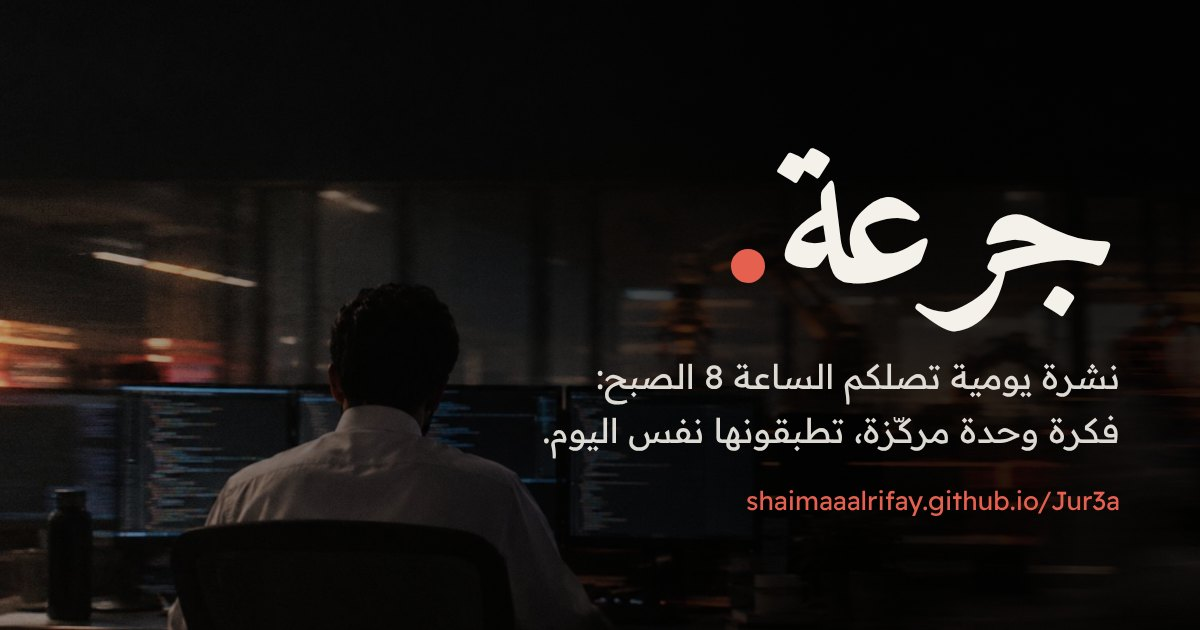
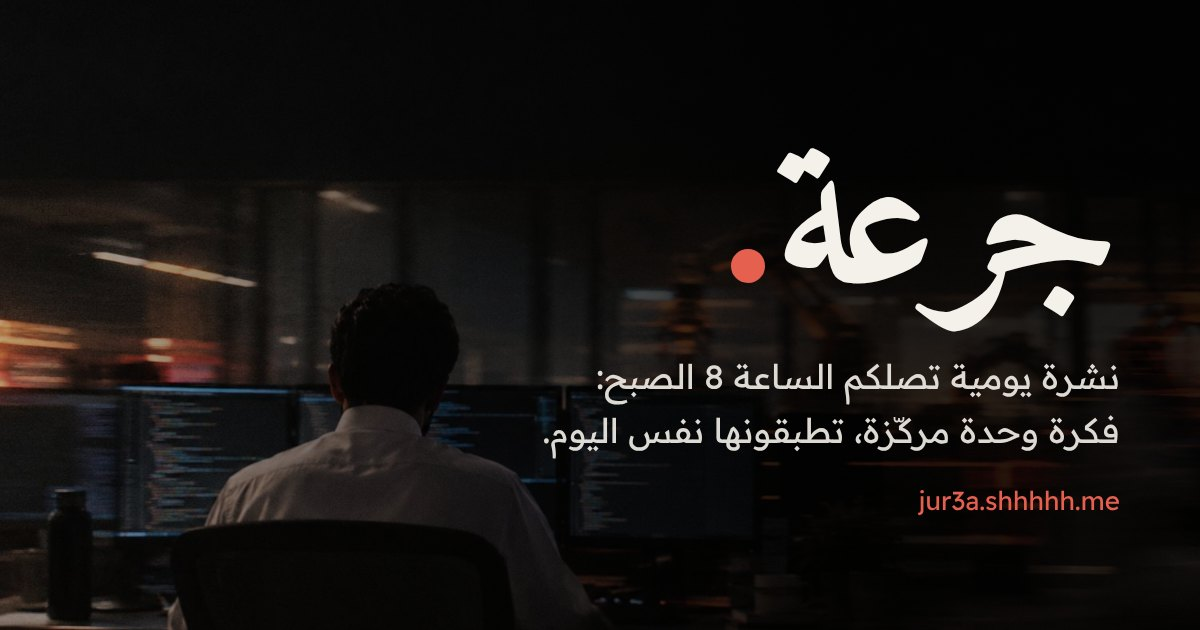
الرئيسية: الأعداد في الوسط 10 بكل صفحة مع التالي/السابق، والاشتراك تحت + نقل الروابط لـ jur3a.shhhhh.me
Claude-Session: https://claude.ai/code/session_01SRfYB84JyMSQ5npu2S7rZ2

Changed region(s): [[0.6167, 0.7841, 0.925, 0.8143]]

diff --git a/assets/app.js b/assets/app.js
@@ -24,19 +24,47 @@
       var filters = document.getElementById('filters');
       var topics = [];
       all.forEach(function (i) { if (topics.indexOf(i.topic) < 0) topics.push(i.topic); });
-      var current = 'الكل';
-      function draw() {
-        var shown = all.filter(function (i) { return current === 'الكل' || i.topic === current; });
-        list.innerHTML = shown.length ? shown.map(card).join('') : '<p class="empty">ما فيه أعداد في هذا الموضوع للحين.</p>';
-        var c = document.getElementById('count'); if (c) c.textContent = n(all.length) + ' عدد';
+      var current = 'الكل', page = 1, PER = 10;
+      var pagerEl = document.getElementById('list-pager');
+      function pageButtons(total) {
+        // 1 … 4 5 6 … 12 (compact when there are many pages)
+        var out = [], k;
+        for (k = 1; k <= total; k++) {
+          if (k === 1 || k === total || Math.abs(k - page) <= 1) out.push(k);
+          else if (out[out.length - 1] !== '…') out.push('…');
+        }
+        return out;
       }
+      function draw(scroll) {
+        var shown = all.filter(function (i) { return current === 'الكل' || i.topic === current; });
+        var pages = Math.max(1, Math.ceil(shown.length / PER));
+        if (page > pages) page = pages;
+        var slice = shown.slice((page - 1) * PER, page * PER);
+        list.innerHTML = slice.length ? slice.map(card).join('') : '<p class="empty">ما فيه أعداد في هذا الموضوع للحين.</p>';
+        var c = document.getElementById('count'); if (c) c.textContent = n(all.length) + ' عدد';
+        if (pagerEl) {
+          pagerEl.hidden = pages < 2;
+          pagerEl.innerHTML = pages < 2 ? '' :
+            '<button type="button" class="pg-arrow" data-p="' + (page - 1) + '"' + (page === 1 ? ' disabled' : '') + ' aria-label="الصفحة السابقة">→ السابق</button>' +
+            '<span class="pg-nums">' + pageButtons(pages).map(function (k) {
+              return k === '…' ? '<span class="pg-gap">…</span>' :
+                '<button type="button" data-p="' + k + '"' + (k === page ? ' aria-current="page"' : '') + '>' + n(k) + '</button>';
+            }).join('') + '</span>' +
+            '<button type="button" class="pg-arrow" data-p="' + (page + 1) + '"' + (page === pages ? ' disabled' : '') + ' aria-label="الصفحة التالية">التالي ←</button>';
+        }
+        if (scroll) { var top = (filters || list).getBoundingClientRect().top + window.scrollY - 90; window.scrollTo({ top: Math.max(0, top), behavior: 'smooth' }); }
+      }
+      if (pagerEl) pagerEl.addEventListener('click', function (e) {
+        var b = e.target.closest('button[data-p]'); if (!b || b.disabled) return;
+        page = +b.getAttribute('data-p'); draw(true);
+      });
       if (filters) {
         filters.innerHTML = ['الكل'].concat(topics).map(function (t) {
           return '<button type="button" aria-pressed="' + (t === current) + '">' + esc(t) + '</button>';
         }).join('');
         filters.addEventListener('click', function (e) {
           var b = e.target.closest('button'); if (!b) return;
-          current = b.textContent;
+          current = b.textContent; page = 1;
           [].forEach.call(filters.querySelectorAll('button'), function (x) { x.setAttribute('aria-pressed', String(x === b)); });
           draw();
         });

diff --git a/index.html b/index.html
@@ -5,14 +5,14 @@
 <meta name="viewport" content="width=device-width, initial-scale=1">
 <title>جرعة — نشرة يومية تصلكم الساعة 8 الصبح</title>
 <meta name="description" content="نشرة عربية يومية: كل صباح فكرة وحدة مركّزة في التقنية، الريادة، المنتجات، التسويق، الصحة، المهارات، الأدب والتراث السعودي، مع خطوة تطبقونها نفس اليوم.">
-<link rel="canonical" href="https://shaimaaalrifay.github.io/Jur3a/">
+<link rel="canonical" href="https://jur3a.shhhhh.me/">
 <meta property="og:type" content="website">
 <meta property="og:site_name" content="جرعة">
 <meta property="og:locale" content="ar_SA">
 <meta property="og:title" content="جرعة — نشرة يومية تصلكم الساعة 8 الصبح">
 <meta property="og:description" content="كل صباح فكرة وحدة مركّزة، وخطوة تطبقونها نفس اليوم. مجاناً وبدون إعلانات.">
-<meta property="og:url" content="https://shaimaaalrifay.github.io/Jur3a/">
-<meta property="og:image" content="https://shaimaaalrifay.github.io/Jur3a/assets/og.jpg">
+<meta property="og:url" content="https://jur3a.shhhhh.me/">
+<meta property="og:image" content="https://jur3a.shhhhh.me/assets/og.jpg">
 <meta property="og:image:width" content="1200">
 <meta property="og:image:height" content="630">
 <meta name="twitter:card" content="summary_large_image">
@@ -38,7 +38,13 @@
       <p>نشرة يومية تصلكم الساعة 8 الصبح. كل عدد يتعمق في فكرة وحدة من التقنية، أو الريادة، أو المنتجات، أو التسويق، أو الصحة، أو تطوير الذات، أو الأدب العربي والتراث السعودي، ويطلعكم منها بشي تطبقونه نفس اليوم.</p>
       <div class="facts"><span>كل يوم · 8:00 ص</span><span>أقل من 10 دقائق</span><span id="count">…</span></div>
     </section>
-<section class="join" id="subscribe" hidden>
+    <div class="filters" id="filters" aria-label="تصفية حسب الموضوع"></div>
+    <section class="home-list">
+      <div class="cards" id="issue-list"><p class="empty">جاري تحميل الأعداد…</p></div>
+      <nav class="list-pager" id="list-pager" aria-label="صفحات الأعداد" hidden></nav>
+    </section>
+  </div>
+  <section class="join" id="subscribe" hidden>
   <div class="join-in">
     <h2 class="join-title" aria-label="خلك قريب من كل فكرة تستحق تعرفها">خلـــك قريب من كل فكـــرة<br><em>تستحـــق تعرفـــها</em></h2>
     <p class="join-sub">كل صباح، جرعة جديدة.. ومعرفة تفتح لك ألف باب.</p>
@@ -58,11 +64,6 @@
     <p class="join-msg" role="status" aria-live="polite"></p>
   </div>
 </section>
-    <div class="filters" id="filters" aria-label="تصفية حسب الموضوع"></div>
-    <section class="home-list">
-      <div class="cards" id="issue-list"><p class="empty">جاري تحميل الأعداد…</p></div>
-    </section>
-  </div>
   <section class="suggest" id="suggest" hidden>
   <h2 class="join-title small">اقترحوا علينا موضوع</h2>
   <p class="join-sub">فيه شي تبون تفهمونه أكثر؟ قولوا لنا، وممكن يكون عدد جاي.</p>

diff --git a/issues/012.html b/issues/012.html
@@ -5,14 +5,14 @@
 <meta name="viewport" content="width=device-width, initial-scale=1">
 <title>جرعة #12: أسبوع انكسرت فيه خمس طبقات</title>
 <meta name="description" content="ثغرات أكتوبر ضربت كل طبقات البرمجيات تقريباً في وقت واحد، وهذا الإعداد البسيط يحميكم من أغلب الحزم الخبيثة.">
-<link rel="canonical" href="https://shaimaaalrifay.github.io/Jur3a/issues/012.html">
+<link rel="canonical" href="https://jur3a.shhhhh.me/issues/012.html">
 <meta property="og:type" content="article">
 <meta property="og:site_name" content="جرعة">
 <meta property="og:locale" content="ar_SA">
 <meta property="og:title" content="جرعة #12: أسبوع انكسرت فيه خمس طبقات">
 <meta property="og:description" content="ثغرات أكتوبر ضربت كل طبقات البرمجيات تقريباً في وقت واحد، وهذا الإعداد البسيط يحميكم من أغلب الحزم الخبيثة.">
-<meta property="og:url" content="https://shaimaaalrifay.github.io/Jur3a/issues/012.html">
-<meta property="og:image" content="https://shaimaaalrifay.github.io/Jur3a/assets/covers/engineering.jpg">
+<meta property="og:url" content="https://jur3a.shhhhh.me/issues/012.html">
+<meta property="og:image" content="https://jur3a.shhhhh.me/assets/covers/engineering.jpg">
 <meta property="og:image:width" content="1500">
 <meta property="og:image:height" content="1000">
 <meta property="article:published_time" content="2026-11-10">

diff --git a/issues/011.html b/issues/011.html
@@ -5,14 +5,14 @@
 <meta name="viewport" content="width=device-width, initial-scale=1">
 <title>جرعة #11: العرضة: لما يصير الشعر خطوة</title>
 <meta name="description" content="كيف صارت العرضة النجدية أول عنصر سعودي منفرد في قائمة اليونسكو للتراث غير المادي، ووش معنى اسمها.">
-<link rel="canonical" href="https://shaimaaalrifay.github.io/Jur3a/issues/011.html">
+<link rel="canonical" href="https://jur3a.shhhhh.me/issues/011.html">
 <meta property="og:type" content="article">
 <meta property="og:site_name" content="جرعة">
 <meta property="og:locale" content="ar_SA">
 <meta property="og:title" content="جرعة #11: العرضة: لما يصير الشعر خطوة">
 <meta property="og:description" content="كيف صارت العرضة النجدية أول عنصر سعودي منفرد في قائمة اليونسكو للتراث غير المادي، ووش معنى اسمها.">
-<meta property="og:url" content="https://shaimaaalrifay.github.io/Jur3a/issues/011.html">
-<meta property="og:image" content="https://shaimaaalrifay.github.io/Jur3a/assets/covers/heritage.jpg">
+<meta property="og:url" content="https://jur3a.shhhhh.me/issues/011.html">
+<meta property="og:image" content="https://jur3a.shhhhh.me/assets/covers/heritage.jpg">
 <meta property="og:image:width" content="1500">
 <meta property="og:image:height" content="1000">
 <meta property="article:published_time" content="2026-11-09">

diff --git a/issues/010.html b/issues/010.html
@@ -5,14 +5,14 @@
 <meta name="viewport" content="width=device-width, initial-scale=1">
 <title>جرعة #10: الحمامة المطوّقة والشبكة</title>
 <meta name="description" content="حكاية من كليلة ودمنة عمرها أكثر من 1200 سنة، وفيها درس في القيادة والعمل الجماعي يصلح لاجتماع بكرة.">
-<link rel="canonical" href="https://shaimaaalrifay.github.io/Jur3a/issues/010.html">
+<link rel="canonical" href="https://jur3a.shhhhh.me/issues/010.html">
 <meta property="og:type" content="article">
 <meta property="og:site_name" content="جرعة">
 <meta property="og:locale" content="ar_SA">
 <meta property="og:title" content="جرعة #10: الحمامة المطوّقة والشبكة">
 <meta property="og:description" content="حكاية من كليلة ودمنة عمرها أكثر من 1200 سنة، وفيها درس في القيادة والعمل الجماعي يصلح لاجتماع بكرة.">
-<meta property="og:url" content="https://shaimaaalrifay.github.io/Jur3a/issues/010.html">
-<meta property="og:image" content="https://shaimaaalrifay.github.io/Jur3a/assets/covers/literature.jpg">
+<meta property="og:url" content="https://jur3a.shhhhh.me/issues/010.html">
+<meta property="og:image" content="https://jur3a.shhhhh.me/assets/covers/literature.jpg">
 <meta property="og:image:width" content="1500">
 <meta property="og:image:height" content="1000">
 <meta property="article:published_time" content="2026-11-09">

diff --git a/issues/004.html b/issues/004.html
@@ -5,14 +5,14 @@
 <meta name="viewport" content="width=device-width, initial-scale=1">
 <title>جرعة #4: Android 16 صار إلزامي، وFlutter يفصل التصميم</title>
 <meta name="description" content="مهلة Google Play انتهت، وMaterial وCupertino طلعوا من الـ SDK. قائمة فحص قبل التحديث الجاي.">
-<link rel="canonical" href="https://shaimaaalrifay.github.io/Jur3a/issues/004.html">
+<link rel="canonical" href="https://jur3a.shhhhh.me/issues/004.html">
 <meta property="og:type" content="article">
 <meta property="og:site_name" content="جرعة">
 <meta property="og:locale" content="ar_SA">
 <meta property="og:title" content="جرعة #4: Android 16 صار إلزامي، وFlutter يفصل التصميم">
 <meta property="og:description" content="مهلة Google Play انتهت، وMaterial وCupertino طلعوا من الـ SDK. قائمة فحص قبل التحديث الجاي.">
-<meta property="og:url" content="https://shaimaaalrifay.github.io/Jur3a/issues/004.html">
-<meta property="og:image" content="https://shaimaaalrifay.github.io/Jur3a/assets/covers/apps.jpg">
+<meta property="og:url" content="https://jur3a.shhhhh.me/issues/004.html">
+<meta property="og:image" content="https://jur3a.shhhhh.me/assets/covers/apps.jpg">
 <meta property="og:image:width" content="1500">
 <meta property="og:image:height" content="1000">
 <meta property="article:published_time" content="2026-11-09">

diff --git a/issues/005.html b/issues/005.html
@@ -5,14 +5,14 @@
 <meta name="viewport" content="width=device-width, initial-scale=1">
 <title>جرعة #5: ساعتين حديد بالأسبوع تكفي</title>
 <meta name="description" content="دراسة تابعت 147 ألف شخص 30 سنة لقت النقطة المثالية لتمارين المقاومة. وهذي خطتكم.">
-<link rel="canonical" href="https://shaimaaalrifay.github.io/Jur3a/issues/005.html">
+<link rel="canonical" href="https://jur3a.shhhhh.me/issues/005.html">
 <meta property="og:type" content="article">
 <meta property="og:site_name" content="جرعة">
 <meta property="og:locale" content="ar_SA">
 <meta property="og:title" content="جرعة #5: ساعتين حديد بالأسبوع تكفي">
 <meta property="og:description" content="دراسة تابعت 147 ألف شخص 30 سنة لقت النقطة المثالية لتمارين المقاومة. وهذي خطتكم.">
-<meta property="og:url" content="https://shaimaaalrifay.github.io/Jur3a/issues/005.html">
-<meta property="og:image" content="https://shaimaaalrifay.github.io/Jur3a/assets/covers/fitness.jpg">
+<meta property="og:url" content="https://jur3a.shhhhh.me/issues/005.html">
+<meta property="og:image" content="https://jur3a.shhhhh.me/assets/covers/fitness.jpg">
 <meta property="og:image:width" content="1500">
 <meta property="og:image:height" content="1000">
 <meta property="article:published_time" content="2026-11-09">

diff --git a/issues/002.html b/issues/002.html
@@ -5,14 +5,14 @@
 <meta name="viewport" content="width=device-width, initial-scale=1">
 <title>جرعة #2: هل شركتكم حية تلقائياً؟</title>
 <meta name="description" content="سؤال Paul Graham اللي يفرق بين شركة تعيش وشركة تنتظر الجولة الجاية، وصفقة HUMAIN وCNTXT.">
-<link rel="canonical" href="https://shaimaaalrifay.github.io/Jur3a/issues/002.html">
+<link rel="canonical" href="https://jur3a.shhhhh.me/issues/002.html">
 <meta property="og:type" content="article">
 <meta property="og:site_name" content="جرعة">
 <meta property="og:locale" content="ar_SA">
 <meta property="og:title" content="جرعة #2: هل شركتكم حية تلقائياً؟">
 <meta property="og:description" content="سؤال Paul Graham اللي يفرق بين شركة تعيش وشركة تنتظر الجولة الجاية، وصفقة HUMAIN وCNTXT.">
-<meta property="og:url" content="https://shaimaaalrifay.github.io/Jur3a/issues/002.html">
-<meta property="og:image" content="https://shaimaaalrifay.github.io/Jur3a/assets/covers/startups.jpg">
+<meta property="og:url" content="https://jur3a.shhhhh.me/issues/002.html">
+<meta property="og:image" content="https://jur3a.shhhhh.me/assets/covers/startups.jpg">
 <meta property="og:image:width" content="1500">
 <meta property="og:image:height" content="1000">
 <meta property="article:published_time" content="2026-11-09">

diff --git a/issues/008.html b/issues/008.html
@@ -5,14 +5,14 @@
 <meta name="viewport" content="width=device-width, initial-scale=1">
 <title>جرعة #8: لما ماتت البومة وعاش البراند</title>
 <meta name="description" content="حملة Dead Duo تحت المجهر، وكيف تجهزين للجمعة البيضاء في عصر محركات الإجابة.">
-<link rel="canonical" href="https://shaimaaalrifay.github.io/Jur3a/issues/008.html">
+<link rel="canonical" href="https://jur3a.shhhhh.me/issues/008.html">
 <meta property="og:type" content="article">
 <meta property="og:site_name" content="جرعة">
 <meta property="og:locale" content="ar_SA">
 <meta property="og:title" content="جرعة #8: لما ماتت البومة وعاش البراند">
 <meta property="og:description" content="حملة Dead Duo تحت المجهر، وكيف تجهزين للجمعة البيضاء في عصر محركات الإجابة.">
-<meta property="og:url" content="https://shaimaaalrifay.github.io/Jur3a/issues/008.html">
-<meta property="og:image" content="https://shaimaaalrifay.github.io/Jur3a/assets/covers/marketing.jpg">
+<meta property="og:url" content="https://jur3a.shhhhh.me/issues/008.html">
+<meta property="og:image" content="https://jur3a.shhhhh.me/assets/covers/marketing.jpg">
 <meta property="og:image:width" content="1500">
 <meta property="og:image:height" content="1000">
 <meta property="article:published_time" content="2026-11-09">

diff --git a/issues/003.html b/issues/003.html
@@ -5,14 +5,14 @@
 <meta name="viewport" content="width=device-width, initial-scale=1">
 <title>جرعة #3: وقّفي القفز من الهدف للميزة</title>
 <meta name="description" content="شجرة الفرص والحلول: كيف تربطين كل ميزة بمشكلة حقيقية، مع قالب جاهز.">
-<link rel="canonical" href="https://shaimaaalrifay.github.io/Jur3a/issues/003.html">
+<link rel="canonical" href="https://jur3a.shhhhh.me/issues/003.html">
 <meta property="og:type" content="article">
 <meta property="og:site_name" content="جرعة">
 <meta property="og:locale" content="ar_SA">
 <meta property="og:title" content="جرعة #3: وقّفي القفز من الهدف للميزة">
 <meta property="og:description" content="شجرة الفرص والحلول: كيف تربطين كل ميزة بمشكلة حقيقية، مع قالب جاهز.">
-<meta property="og:url" content="https://shaimaaalrifay.github.io/Jur3a/issues/003.html">
-<meta property="og:image" content="https://shaimaaalrifay.github.io/Jur3a/assets/covers/product.jpg">
+<meta property="og:url" content="https://jur3a.shhhhh.me/issues/003.html">
+<meta property="og:image" content="https://jur3a.shhhhh.me/assets/covers/product.jpg">
 <meta property="og:image:width" content="1500">
 <meta property="og:image:height" content="1000">
 <meta property="article:published_time" content="2026-11-09">

diff --git a/issues/009.html b/issues/009.html
@@ -5,14 +5,14 @@
 <meta name="viewport" content="width=device-width, initial-scale=1">
 <title>جرعة #9: أسبوع زر الإيقاف</title>
 <meta name="description" content="عدد خاص: أهم أخبار التقنية في أسبوع، من أمن الـ agents لاستحواذات Git لـ Python بدون JIT.">
-<link rel="canonical" href="https://shaimaaalrifay.github.io/Jur3a/issues/009.html">
+<link rel="canonical" href="https://jur3a.shhhhh.me/issues/009.html">
 <meta property="og:type" content="article">
 <meta property="og:site_name" content="جرعة">
 <meta property="og:locale" content="ar_SA">
 <meta property="og:title" content="جرعة #9: أسبوع زر الإيقاف">
 <meta property="og:description" content="عدد خاص: أهم أخبار التقنية في أسبوع، من أمن الـ agents لاستحواذات Git لـ Python بدون JIT.">
-<meta property="og:url" content="https://shaimaaalrifay.github.io/Jur3a/issues/009.html">
-<meta property="og:image" content="https://shaimaaalrifay.github.io/Jur3a/assets/covers/digest.jpg">
+<meta property="og:url" content="https://jur3a.shhhhh.me/issues/009.html">
+<meta property="og:image" content="https://jur3a.shhhhh.me/assets/covers/digest.jpg">
 <meta property="og:image:width" content="1500">
 <meta property="og:image:height" content="1000">
 <meta property="article:published_time" content="2026-11-09">

diff --git a/issues/001.html b/issues/001.html
@@ -5,14 +5,14 @@
 <meta name="viewport" content="width=device-width, initial-scale=1">
 <title>جرعة #1: من كتابة الكود إلى بناء المصنع</title>
 <meta name="description" content="ليش الكل صار يتكلم عن Software Factories، ووش يعني هذا لشغلك كمهندسين.">
-<link rel="canonical" href="https://shaimaaalrifay.github.io/Jur3a/issues/001.html">
+<link rel="canonical" href="https://jur3a.shhhhh.me/issues/001.html">
 <meta property="og:type" content="article">
 <meta property="og:site_name" content="جرعة">
 <meta property="og:locale" content="ar_SA">
 <meta property="og:title" content="جرعة #1: من كتابة الكود إلى بناء المصنع">
 <meta property="og:description" content="ليش الكل صار يتكلم عن Software Factories، ووش يعني هذا لشغلك كمهندسين.">
-<meta property="og:url" content="https://shaimaaalrifay.github.io/Jur3a/issues/001.html">
-<meta property="og:image" content="https://shaimaaalrifay.github.io/Jur3a/assets/covers/engineering.jpg">
+<meta property="og:url" content="https://jur3a.shhhhh.me/issues/001.html">
+<meta property="og:image" content="https://jur3a.shhhhh.me/assets/covers/engineering.jpg">
 <meta property="og:image:width" content="1500">
 <meta property="og:image:height" content="1000">
 <meta property="article:published_time" content="2026-11-09">
